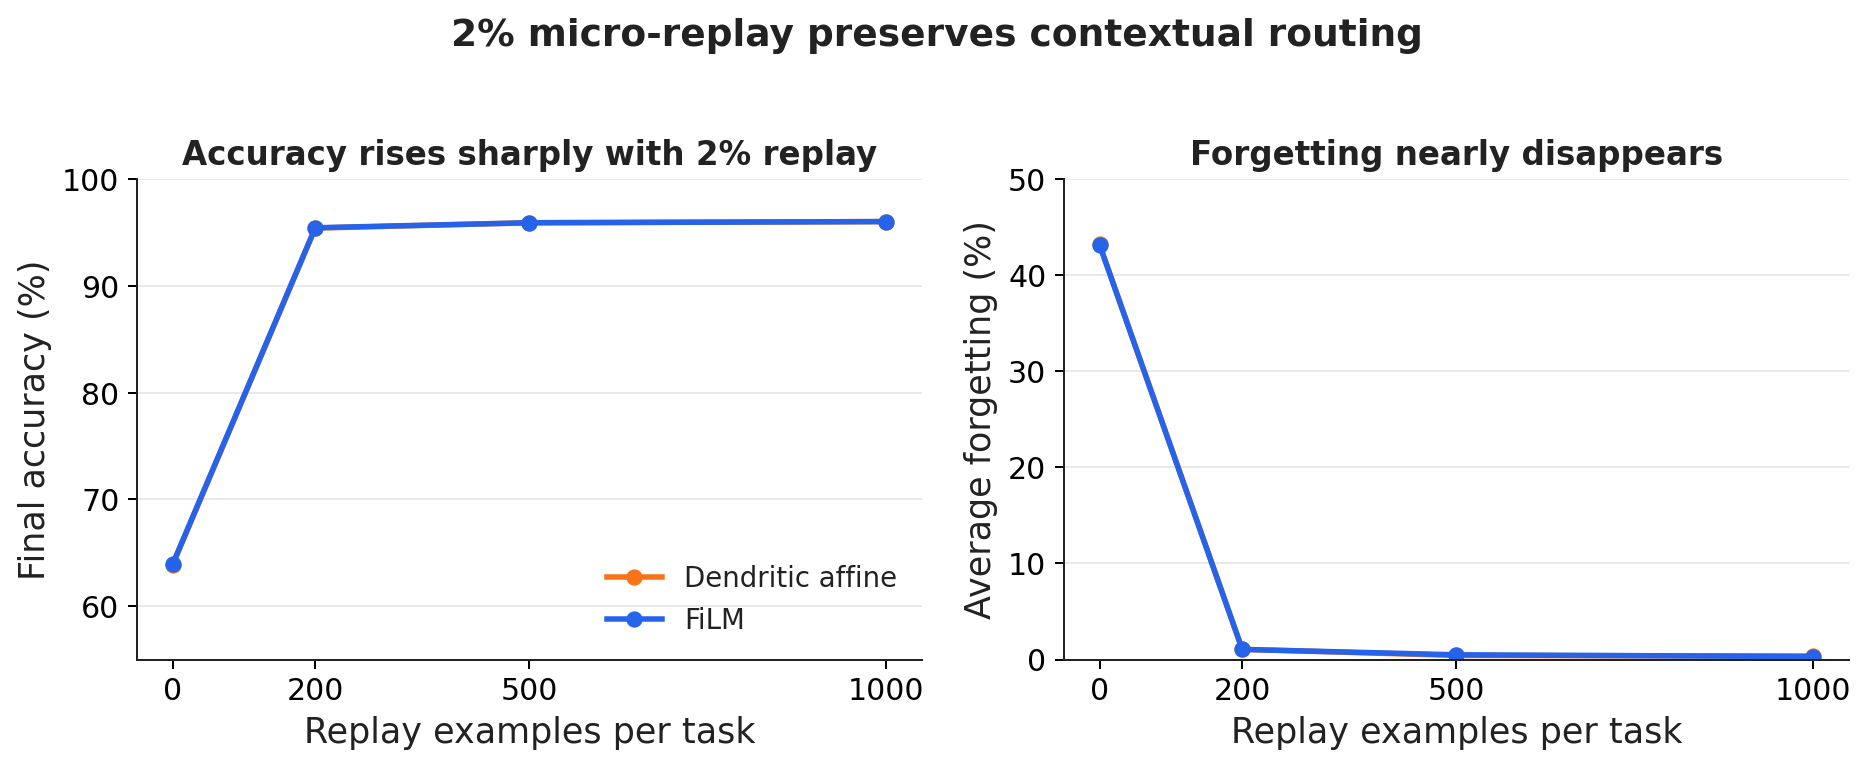
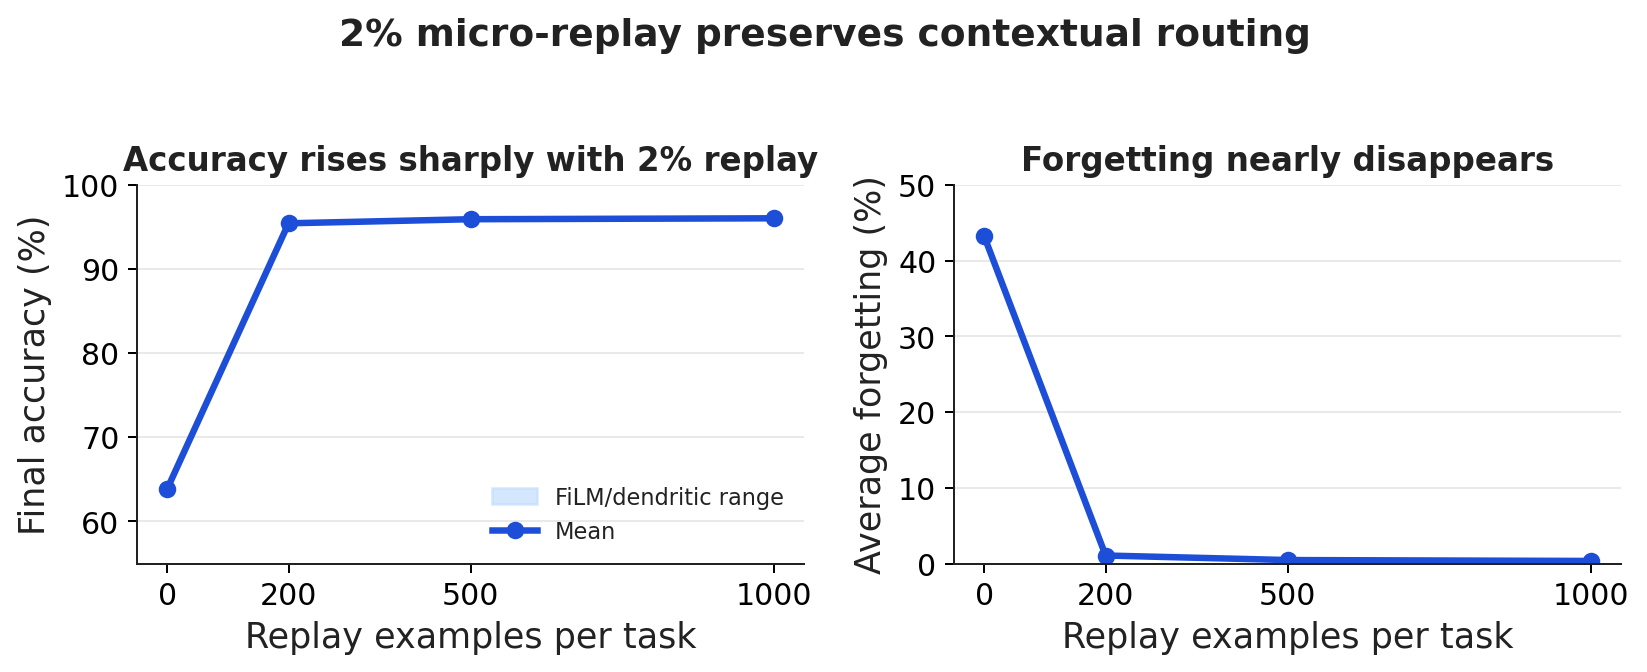
Improve README figure readability

Changed region(s): [[0.0, 0.1875, 0.9909, 0.9688], [0.1858, 0.0, 0.8051, 0.0938], [0.6193, 0.1875, 0.9599, 0.2812]]

diff --git a/scripts/make_readme_figures.py b/scripts/make_readme_figures.py
@@ -206,33 +206,32 @@ def make_gate_similarity_readable() -> Path:
 def make_replay_summary() -> Path:
     csv_path = TABLE_DIR / "table_main_performance.csv"
     df = pd.read_csv(csv_path).copy()
-    df = df.sort_values(["model", "replay_size_per_task"])
-    df["model_label"] = df["model"].map(
-        {
-            "film_full": "FiLM",
-            "dendritic_affine_separate": "Dendritic affine",
-        }
-    ).fillna(df["model"])
+    summary = (
+        df.groupby("replay_size_per_task", as_index=False)
+        .agg(
+            accuracy_mean=("accuracy_%", "mean"),
+            accuracy_min=("accuracy_%", "min"),
+            accuracy_max=("accuracy_%", "max"),
+            forgetting_mean=("forgetting_%", "mean"),
+            forgetting_min=("forgetting_%", "min"),
+            forgetting_max=("forgetting_%", "max"),
+        )
+        .sort_values("replay_size_per_task")
+    )
 
-    fig, axes = plt.subplots(1, 2, figsize=(10.6, 4.2), sharex=True)
-    colors = {"FiLM": "#2563eb", "Dendritic affine": "#f97316"}
+    fig, axes = plt.subplots(1, 2, figsize=(9.4, 3.7), sharex=True)
     metrics = [
-        ("accuracy_%", "Final accuracy (%)", "Accuracy rises sharply with 2% replay"),
-        ("forgetting_%", "Average forgetting (%)", "Forgetting nearly disappears"),
+        ("accuracy", "Final accuracy (%)", "Accuracy rises sharply with 2% replay"),
+        ("forgetting", "Average forgetting (%)", "Forgetting nearly disappears"),
     ]
 
-    for ax, (column, ylabel, title) in zip(axes, metrics):
-        for label, group in df.groupby("model_label", sort=False):
-            group = group.sort_values("replay_size_per_task")
-            ax.plot(
-                group["replay_size_per_task"],
-                group[column],
-                marker="o",
-                linewidth=2.2,
-                markersize=5.5,
-                label=label,
-                color=colors.get(label),
-            )
+    for ax, (prefix, ylabel, title) in zip(axes, metrics):
+        x = summary["replay_size_per_task"]
+        y = summary[f"{prefix}_mean"]
+        ymin = summary[f"{prefix}_min"]
+        ymax = summary[f"{prefix}_max"]
+        ax.fill_between(x, ymin, ymax, color="#bfdbfe", alpha=0.65, label="FiLM/dendritic range")
+        ax.plot(x, y, marker="o", linewidth=2.6, markersize=6.0, color="#1d4ed8", label="Mean")
         ax.set_title(title, fontsize=13, weight="bold")
         ax.set_xlabel("Replay examples per task")
         ax.set_ylabel(ylabel)
@@ -242,11 +241,11 @@ def make_replay_summary() -> Path:
 
     axes[0].set_ylim(55, 100)
     axes[1].set_ylim(0, 50)
-    axes[0].legend(frameon=False, loc="lower right")
+    axes[0].legend(frameon=False, loc="lower right", fontsize=9)
     fig.suptitle("2% micro-replay preserves contextual routing", fontsize=15, weight="bold", y=1.02)
 
     out = FIG_DIR / "fig1_replay_summary.png"
-    fig.tight_layout()
+    fig.tight_layout(pad=1.2)
     fig.savefig(out, dpi=180, bbox_inches="tight")
     plt.close(fig)
     return out

diff --git a/README.md b/README.md
@@ -11,7 +11,7 @@ The main finding is simple:
 > Contextual affine modulation solves the feature-conflict structure; a 2% micro-replay buffer preserves it under sequential training.
 
 <p align="center">
-  <img src="paper/figures/readme_overview.png" alt="Dendritic contextual routing overview" width="560">
+  <img src="paper/figures/readme_overview.png" alt="Dendritic contextual routing overview" width="680">
 </p>
 
 ## Why This Matters
@@ -23,7 +23,7 @@ SDFC, short for Same-Dimension Feature Conflict, turns this into a controlled be
 > When does contextual routing become functionally necessary, and what is required to preserve it under sequential training?
 
 <p align="center">
-  <img src="paper/figures/sdfc_feature_conflict.png" alt="SDFC feature conflict" width="540">
+  <img src="paper/figures/sdfc_feature_conflict.png" alt="SDFC feature conflict" width="660">
 </p>
 
 ## Contribution
@@ -61,7 +61,7 @@ The contribution is narrower: SDFC isolates a setting where context must modulat
 Without replay, sequential training damages the contextual solution. With a buffer containing only 2% of each task's training set, final accuracy rises from about 64% to 95.4%, and average forgetting drops from about 43% to about 1%.
 
 <p align="center">
-  <img src="paper/figures/fig1_replay_summary.png" alt="Accuracy and forgetting versus replay budget" width="600">
+  <img src="paper/figures/fig1_replay_summary.png" alt="Accuracy and forgetting versus replay budget" width="680">
 </p>
 
 The oldest mirror-conflicted task, task 0, recovers from about 28% to about 94% with only a 2% replay buffer.

diff --git a/docs/RELEASE_CHECKLIST.md b/docs/RELEASE_CHECKLIST.md
@@ -49,7 +49,7 @@ Keep:
 - [ ] Description set.
 - [ ] Topics added.
 - [ ] README renders correctly.
-- [ ] README shows compact overview, SDFC feature-conflict, and combined replay-summary figures without dominating the reading flow.
+- [ ] README figures are large enough to read but do not dominate the reading flow.
 - [ ] `docs/ANALYSIS.md` shows the accuracy matrices and gate-similarity diagnostics.
 - [ ] License detected.
 - [ ] Citation button works.